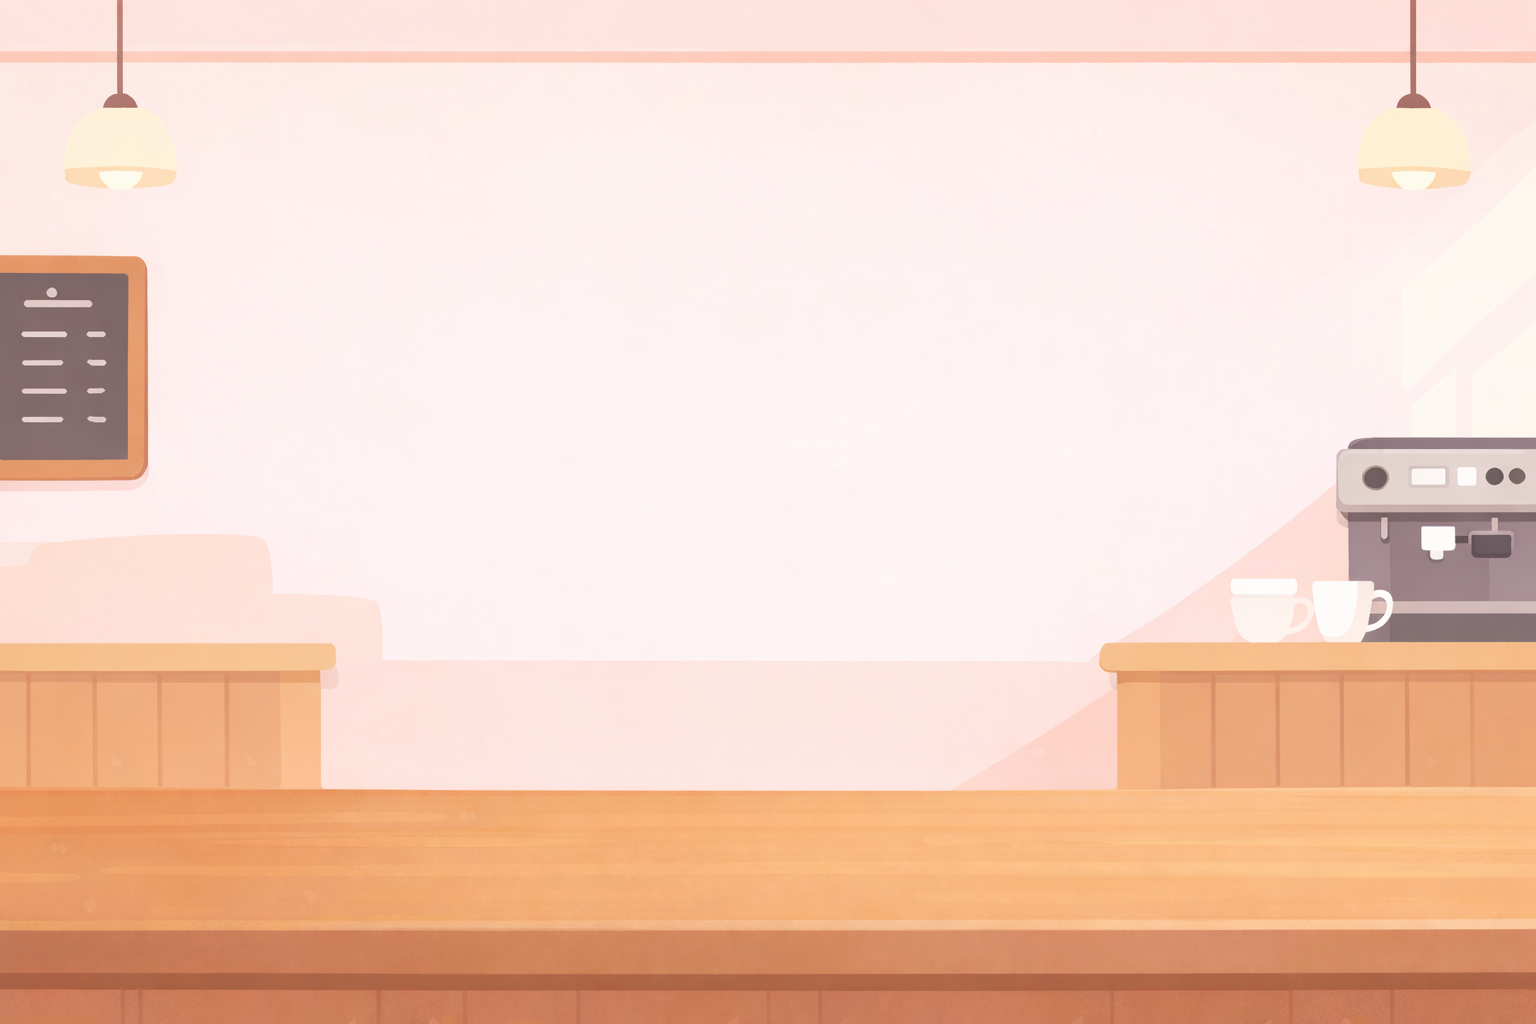
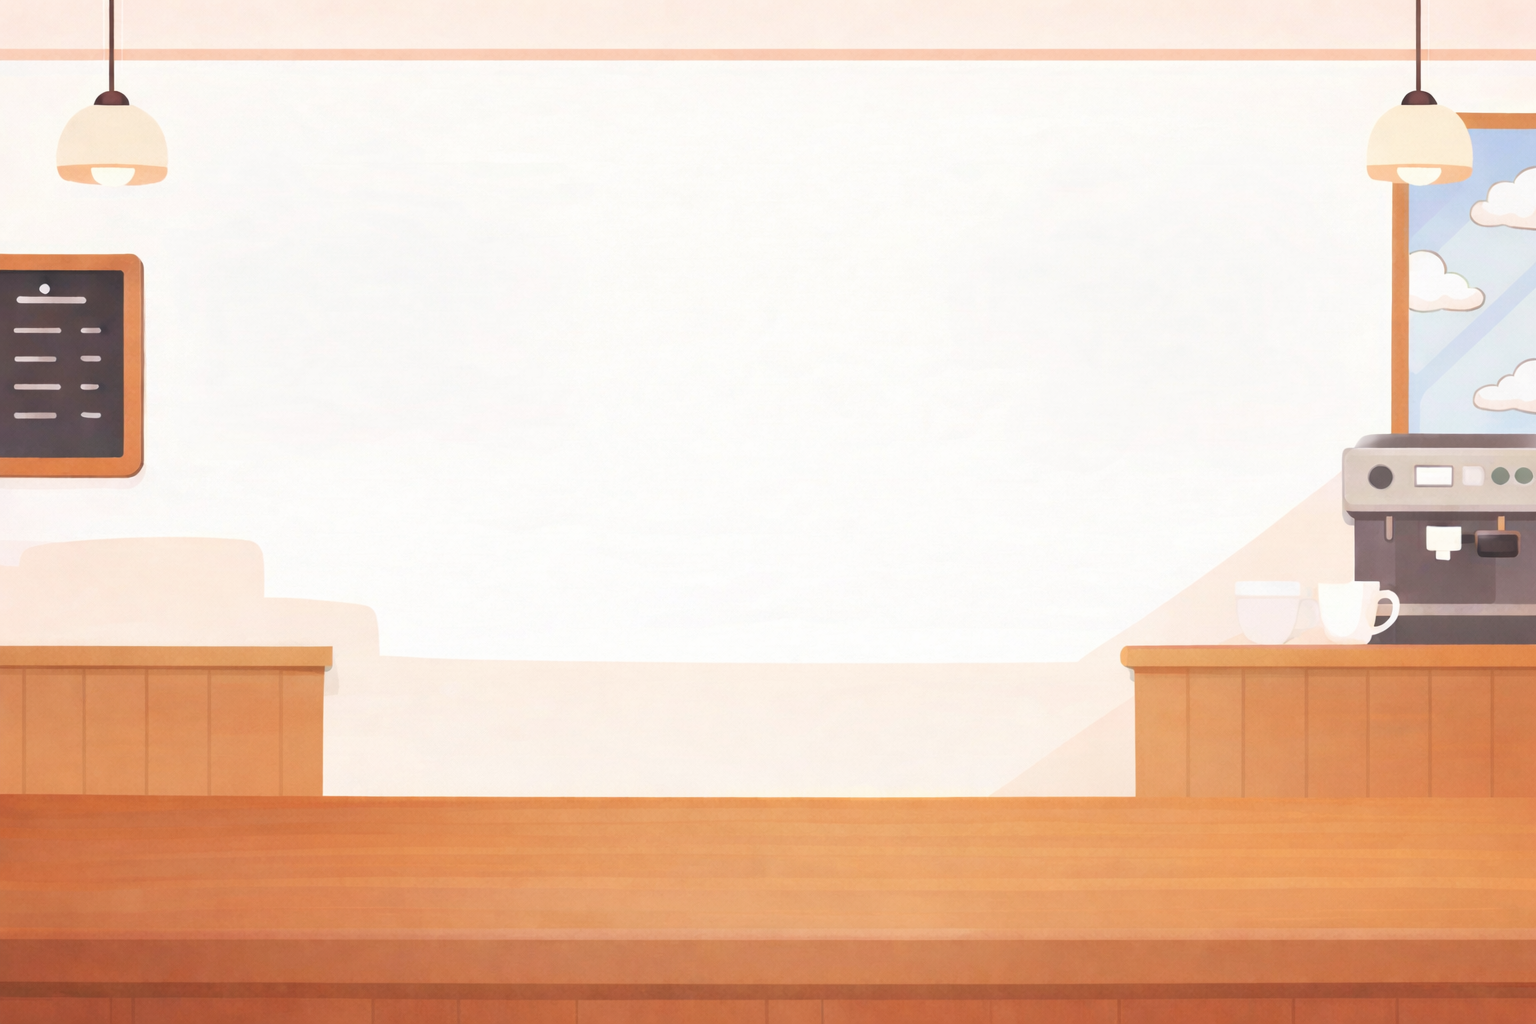
통합 전 마지막 디자인 수정

diff --git a/src/pages/LandingPage.css b/src/pages/LandingPage.css
@@ -16,8 +16,8 @@
   left: 0;
   width: 100%;
   height: 100%;
-  background-image: url('/bakery_bg.png'); /* ⭐ 준비한 배경 이미지 경로 */
-  background-size: cover;       /* 화면 꽉 채우기 */
+  background-image: url('/background.png'); /* ⭐ 준비한 배경 이미지 경로 */
+  background-size: 100% 100%;    /* 화면 꽉 채우기 */
   background-position: center bottom; /* 바닥(카운터) 기준 정렬 */
   z-index: 0;
 }
@@ -30,57 +30,13 @@
   display: flex !important;
   align-items: center; /* 세로 중앙 정렬 */
   justify-content: center;
-  padding-top: 100px; /* 헤더 공간만큼 띄우기 */
+  padding-top: 340px; /* 헤더 공간만큼 띄우기 */
 }
 
 /* 오븐 래퍼 (필요시 위치 미세조정) */
 .oven-wrapper {
   position: relative;
   z-index: 20;
-}
-
-/* =========================================
-   ✨ 연기 애니메이션 (Smoke)
-========================================= */
-.smoke-container {
-  position: absolute;
-  top: -60px; /* 오븐 위쪽 */
-  left: 50%;
-  transform: translateX(-50%);
-  width: 100px;
-  height: 100px;
-  z-index: 15; /* 오븐 뒤, 배경 앞 */
-  pointer-events: none; /* 클릭 방해 안 하게 설정 */
-}
-
-.smoke {
-  position: absolute;
-  width: 40px;
-  height: 40px;
-  background-color: rgba(255, 255, 255, 0.6);
-  border-radius: 50%;
-  bottom: 0;
-  left: 30px;
-  opacity: 0;
-}
-
-/* 연기 3개가 시간차로 올라감 */
-.smoke-1 { animation: smoke-rise 3s infinite 0s; }
-.smoke-2 { animation: smoke-rise 3s infinite 1s; }
-.smoke-3 { animation: smoke-rise 3s infinite 2s; }
-
-@keyframes smoke-rise {
-  0% {
-    transform: translateY(0) scale(1);
-    opacity: 0;
-  }
-  20% {
-    opacity: 0.7;
-  }
-  100% {
-    transform: translateY(-80px) scale(2); /* 위로 올라가면서 커짐 */
-    opacity: 0;
-  }
 }
 
 /* =========================================
@@ -106,4 +62,51 @@
   40% { transform: translateY(20%); }       /* 빼꼼 올라옴 */
   60% { transform: translateY(20%); }       /* 눈치 봄 */
   70% { transform: translateY(100%); }      /* 다시 숨음 */
+}
+
+/* =========================================
+   🍪 테이블 위 소품 배치
+========================================= */
+
+/* 공통 스타일: 마우스 클릭 방해 금지 및 그림자 */
+.table-deco {
+  position: absolute;
+  z-index: 5; /* 배경(0)보다 위, 오븐(10)보다 아래 */
+  cursor: pointer;
+  filter: drop-shadow(2px 4px 6px rgba(0,0,0,0.2));
+  transition: transform 0.2s ease, filter 0.2s ease;
+}
+
+/* 1. 왼쪽: 우유와 버터 */
+.deco-milk {
+  bottom: 5%;   /* 바닥에서의 높이 (책상 위에 있는 느낌) */
+  left: 11%;     /* 왼쪽 여백 */
+  width: 420px;  /* 크기 */
+  transform: rotate(-5deg); /* 살짝 기울기 */
+}
+
+/* (선택) 마우스 올렸을 때 살짝 커지게 하는 효과 */
+.deco-milk:hover {
+  transform: rotate(-5deg) scale(1.05);
+  filter: drop-shadow(0 0 2px #ffffff) drop-shadow(0 0 2px #ffffff);
+}
+
+/* 2. 오른쪽: 쿠키 커터 */
+.deco-cutter {
+  bottom: 4.5%;
+  right: 15%;    /* 오른쪽 여백 */
+  width: 270px;
+  transform: rotate(15deg);
+}
+
+.deco-cutter:hover {
+  transform: rotate(15deg) scale(1.05); 
+  
+  filter: drop-shadow(0 0 2px #ffffff) drop-shadow(0 0 2px #ffffff);
+}
+
+/* 📱 모바일 화면일 때 (화면이 좁으면 소품 숨기거나 조정) */
+@media (max-width: 1000px) {
+  .deco-milk { left: 5%; width: 150px; bottom: 20%; }
+  .deco-cutter { right: 5%; width: 100px; bottom: 22%; }
 }

diff --git a/src/pages/LandingPage.tsx b/src/pages/LandingPage.tsx
@@ -1,43 +1,47 @@
 // src/pages/LandingPage.tsx
-import { Box, Container, Typography } from "@mui/material";
+import { Box, Container } from "@mui/material";
 import OvenUploader from "../components/OvenUploader";
+import "./LandingPage.css"; // ⭐ CSS 파일 연결 필수
 
 interface LandingPageProps {
   onStart: (file: File) => void;
-  // onCheckLogin 제거 (App에서 처리함)
 }
 
 export default function LandingPage({ onStart }: LandingPageProps) {
 
   const handleOvenFileSelect = (file: File) => {
-    // ⭐ 로그인 체크 로직 삭제!
-    // 그냥 무조건 부모(App)에게 파일을 전달합니다.
     onStart(file);
   };
 
   return (
-    <Box sx={{ 
-      minHeight: "100vh", 
-      display: "flex", 
-      alignItems: "center", 
-      justifyContent: "center",
-      backgroundImage: "url(/background.png)",
-      backgroundSize: "100% 100%",
-      backgroundPosition: "bottom center",
-      backgroundRepeat: "no-repeat",
-      paddingTop: "210px"
-    }}>
+    // 전체를 감싸는 래퍼 (기존 Box 대신 div 사용)
+    <div className="landing-page-wrapper"> 
       
-      <Container maxWidth="sm">
-        <Box sx={{ textAlign: "center" }}>
-          
+      {/* ✅ 1. 배경 이미지 (여기로 분리됨!) */}
+      {/* CSS의 .bakery-background 클래스가 이미지를 담당합니다 */}
+      <div className="bakery-background" />
 
-          <Box sx={{ display: 'flex', justifyContent: 'center', mt: 4 }}>
+      {/* ✅ 2. 탁자 위 소품들 (배경 위에 얹기) */}
+      <img 
+        src="/milk_butter_pour.png" 
+        alt="Milk and Butter" 
+        className="table-deco deco-milk" 
+      />
+      <img 
+        src="/cookie_cutter.png" 
+        alt="Cookie Cutter" 
+        className="table-deco deco-cutter" 
+      />
+
+      {/* ✅ 3. 오븐 및 컨텐츠 (가장 위에 올라옴) */}
+      <Container maxWidth="sm" className="content-container">
+        <Box sx={{ textAlign: "center", width: "100%" }}>
+          <Box sx={{ display: 'flex', justifyContent: 'center' }}>
              <OvenUploader onFileSelected={handleOvenFileSelect} />
           </Box>
-
         </Box>
       </Container>
-    </Box>
+      
+    </div>
   );
 }
